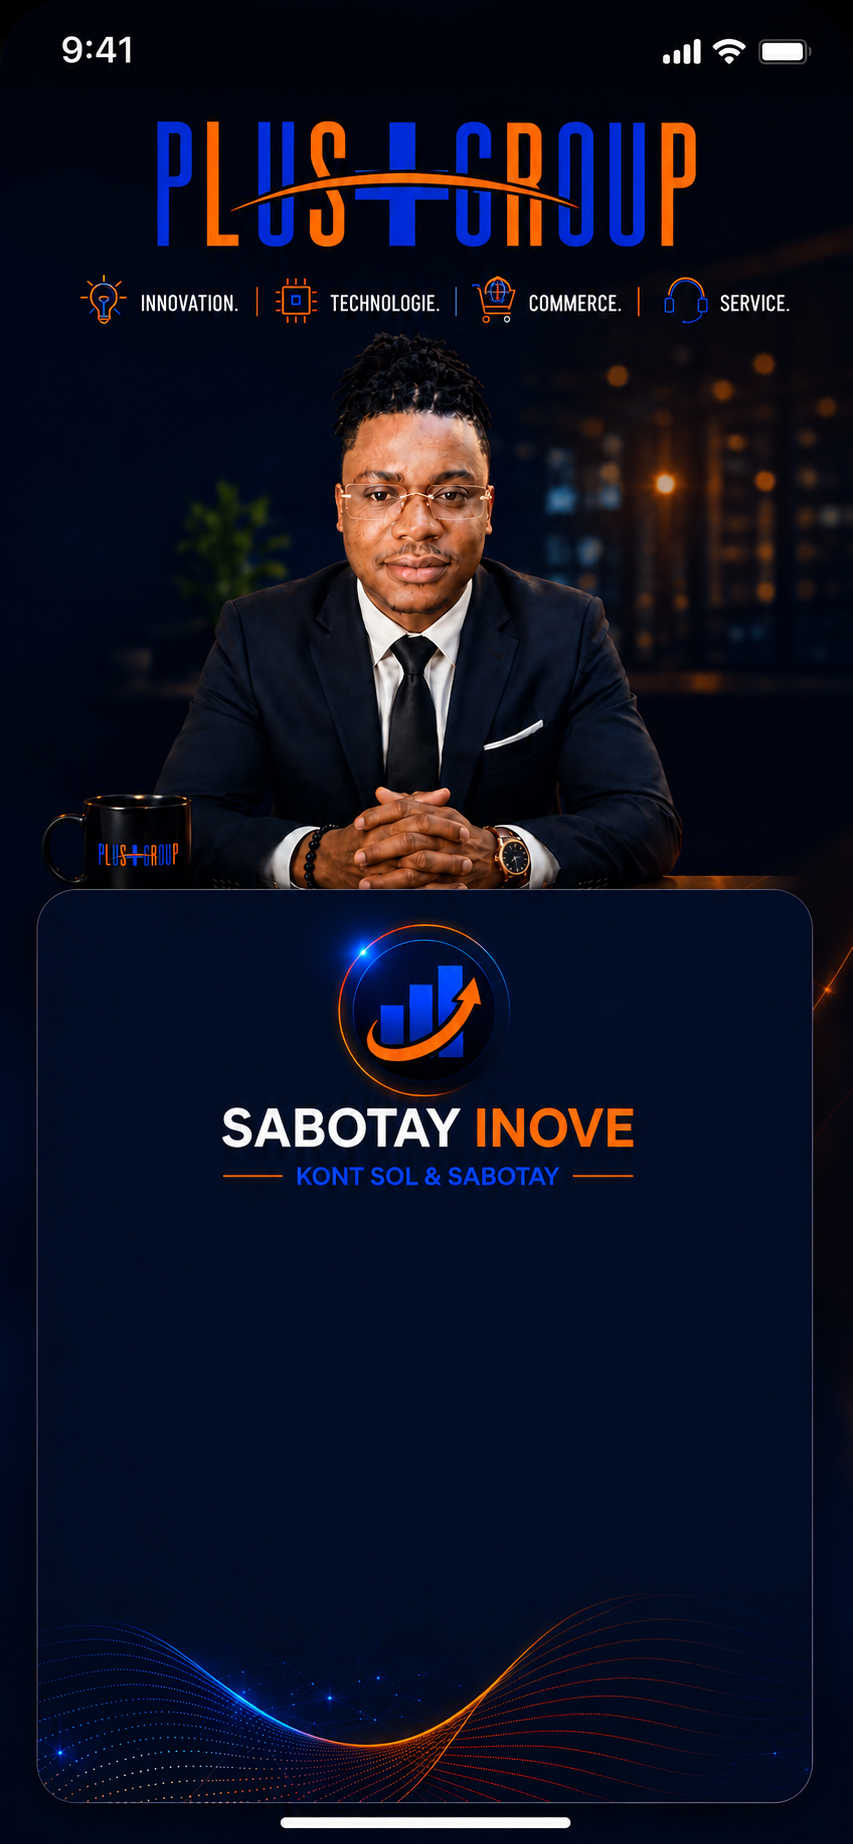
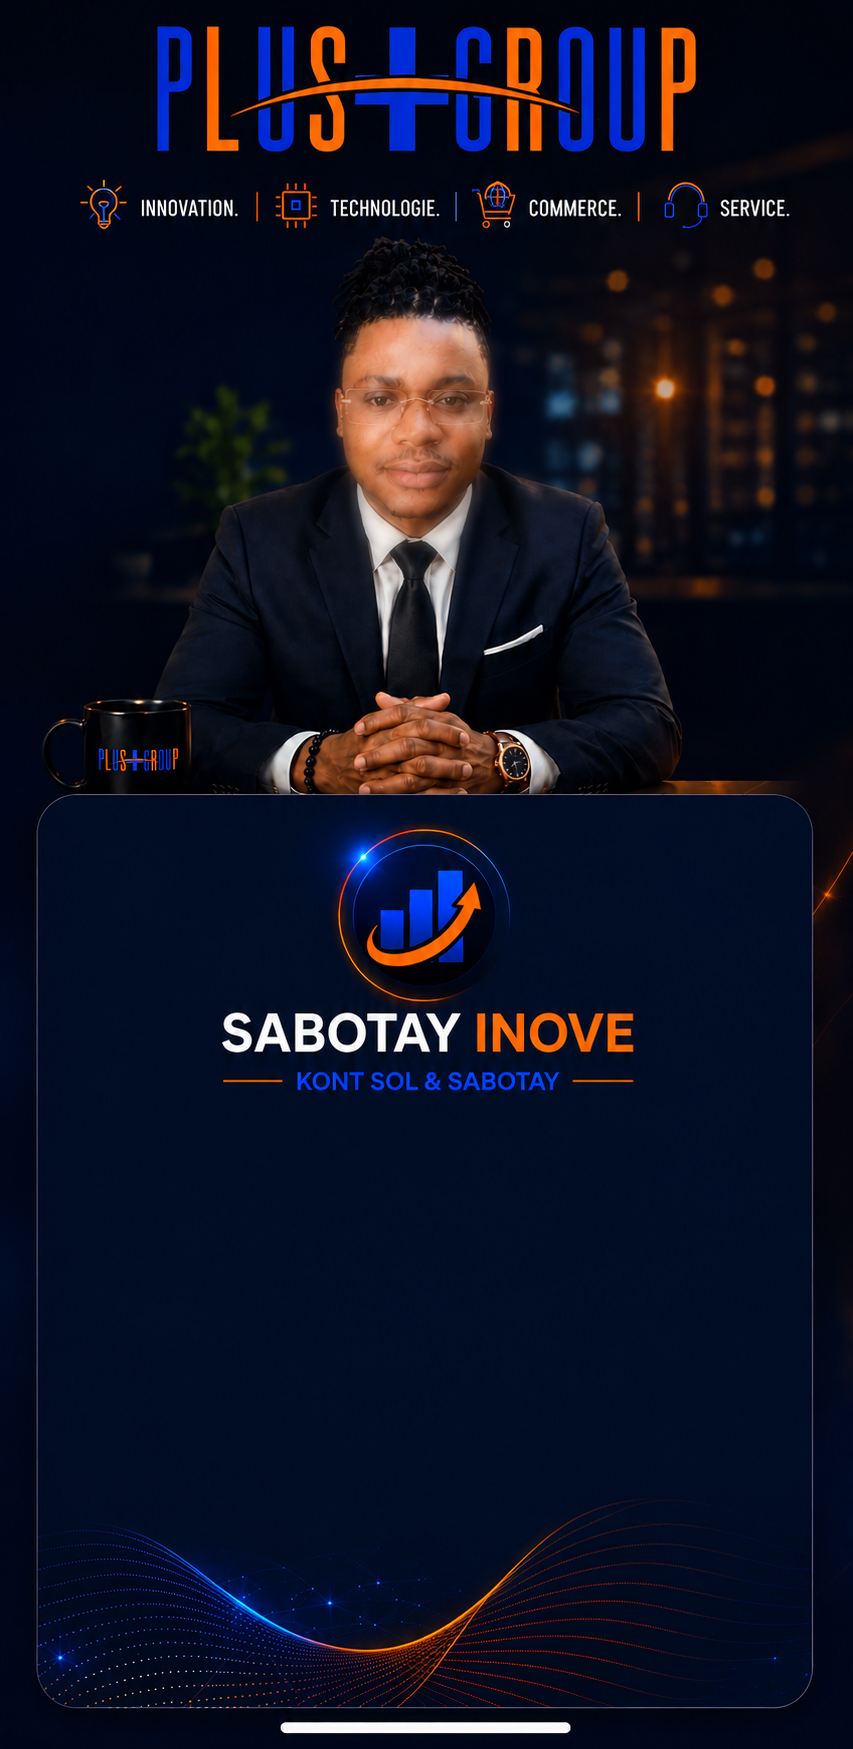
fix(sol): amelyore vizaj + koupe status bar mobil + pozisyon web + defilman

diff --git a/frontend/src/pages/sol/SolLoginPage.jsx b/frontend/src/pages/sol/SolLoginPage.jsx
@@ -102,12 +102,15 @@ export default function SolLoginPage() {
              align-items:flex-start + margin:auto sou kad la santre l san l pa janm
              koupe tèt li lè li pa antre nan wotè ekran an. */
           overflow-y: auto;
+          overflow-x: hidden;
         }
         .sabotay-login-card { margin: auto 0; }
 
-        /* Sou selil laj (desktop/tablèt), fòm nan pran plas nan pano vid a dwat la */
+        /* Sou selil laj (desktop/tablèt), fòm nan pran plas nan pano vid a dwat la —
+           yon ti distans anlè pou l pa monte sou tèks "KONT SOL & SABOTAY" a */
         @media (min-width: 861px) {
-          .sabotay-login-root { justify-content: flex-end; padding-right: 9%; }
+          .sabotay-login-root { justify-content: flex-end; padding-right: 9%; align-items: flex-start; }
+          .sabotay-login-card { margin: 14vh 0 40px; }
         }
 
         /* Sou mobil, itilize imaj vètikal (pòtrè) ki fèt SPESYALMAN pou telefòn,
@@ -122,7 +125,7 @@ export default function SolLoginPage() {
             background-size: cover;
             padding: 20px 18px 32px;
           }
-          .sabotay-login-card { width: 100%; max-width: 420px; margin: 58vh auto 20px; }
+          .sabotay-login-card { width: 100%; max-width: 420px; margin: 55vh auto 20px; }
         }
 
         /* Sou ti ekran byen etwat, kad la ka bezwen pi plis espas anwo pou
